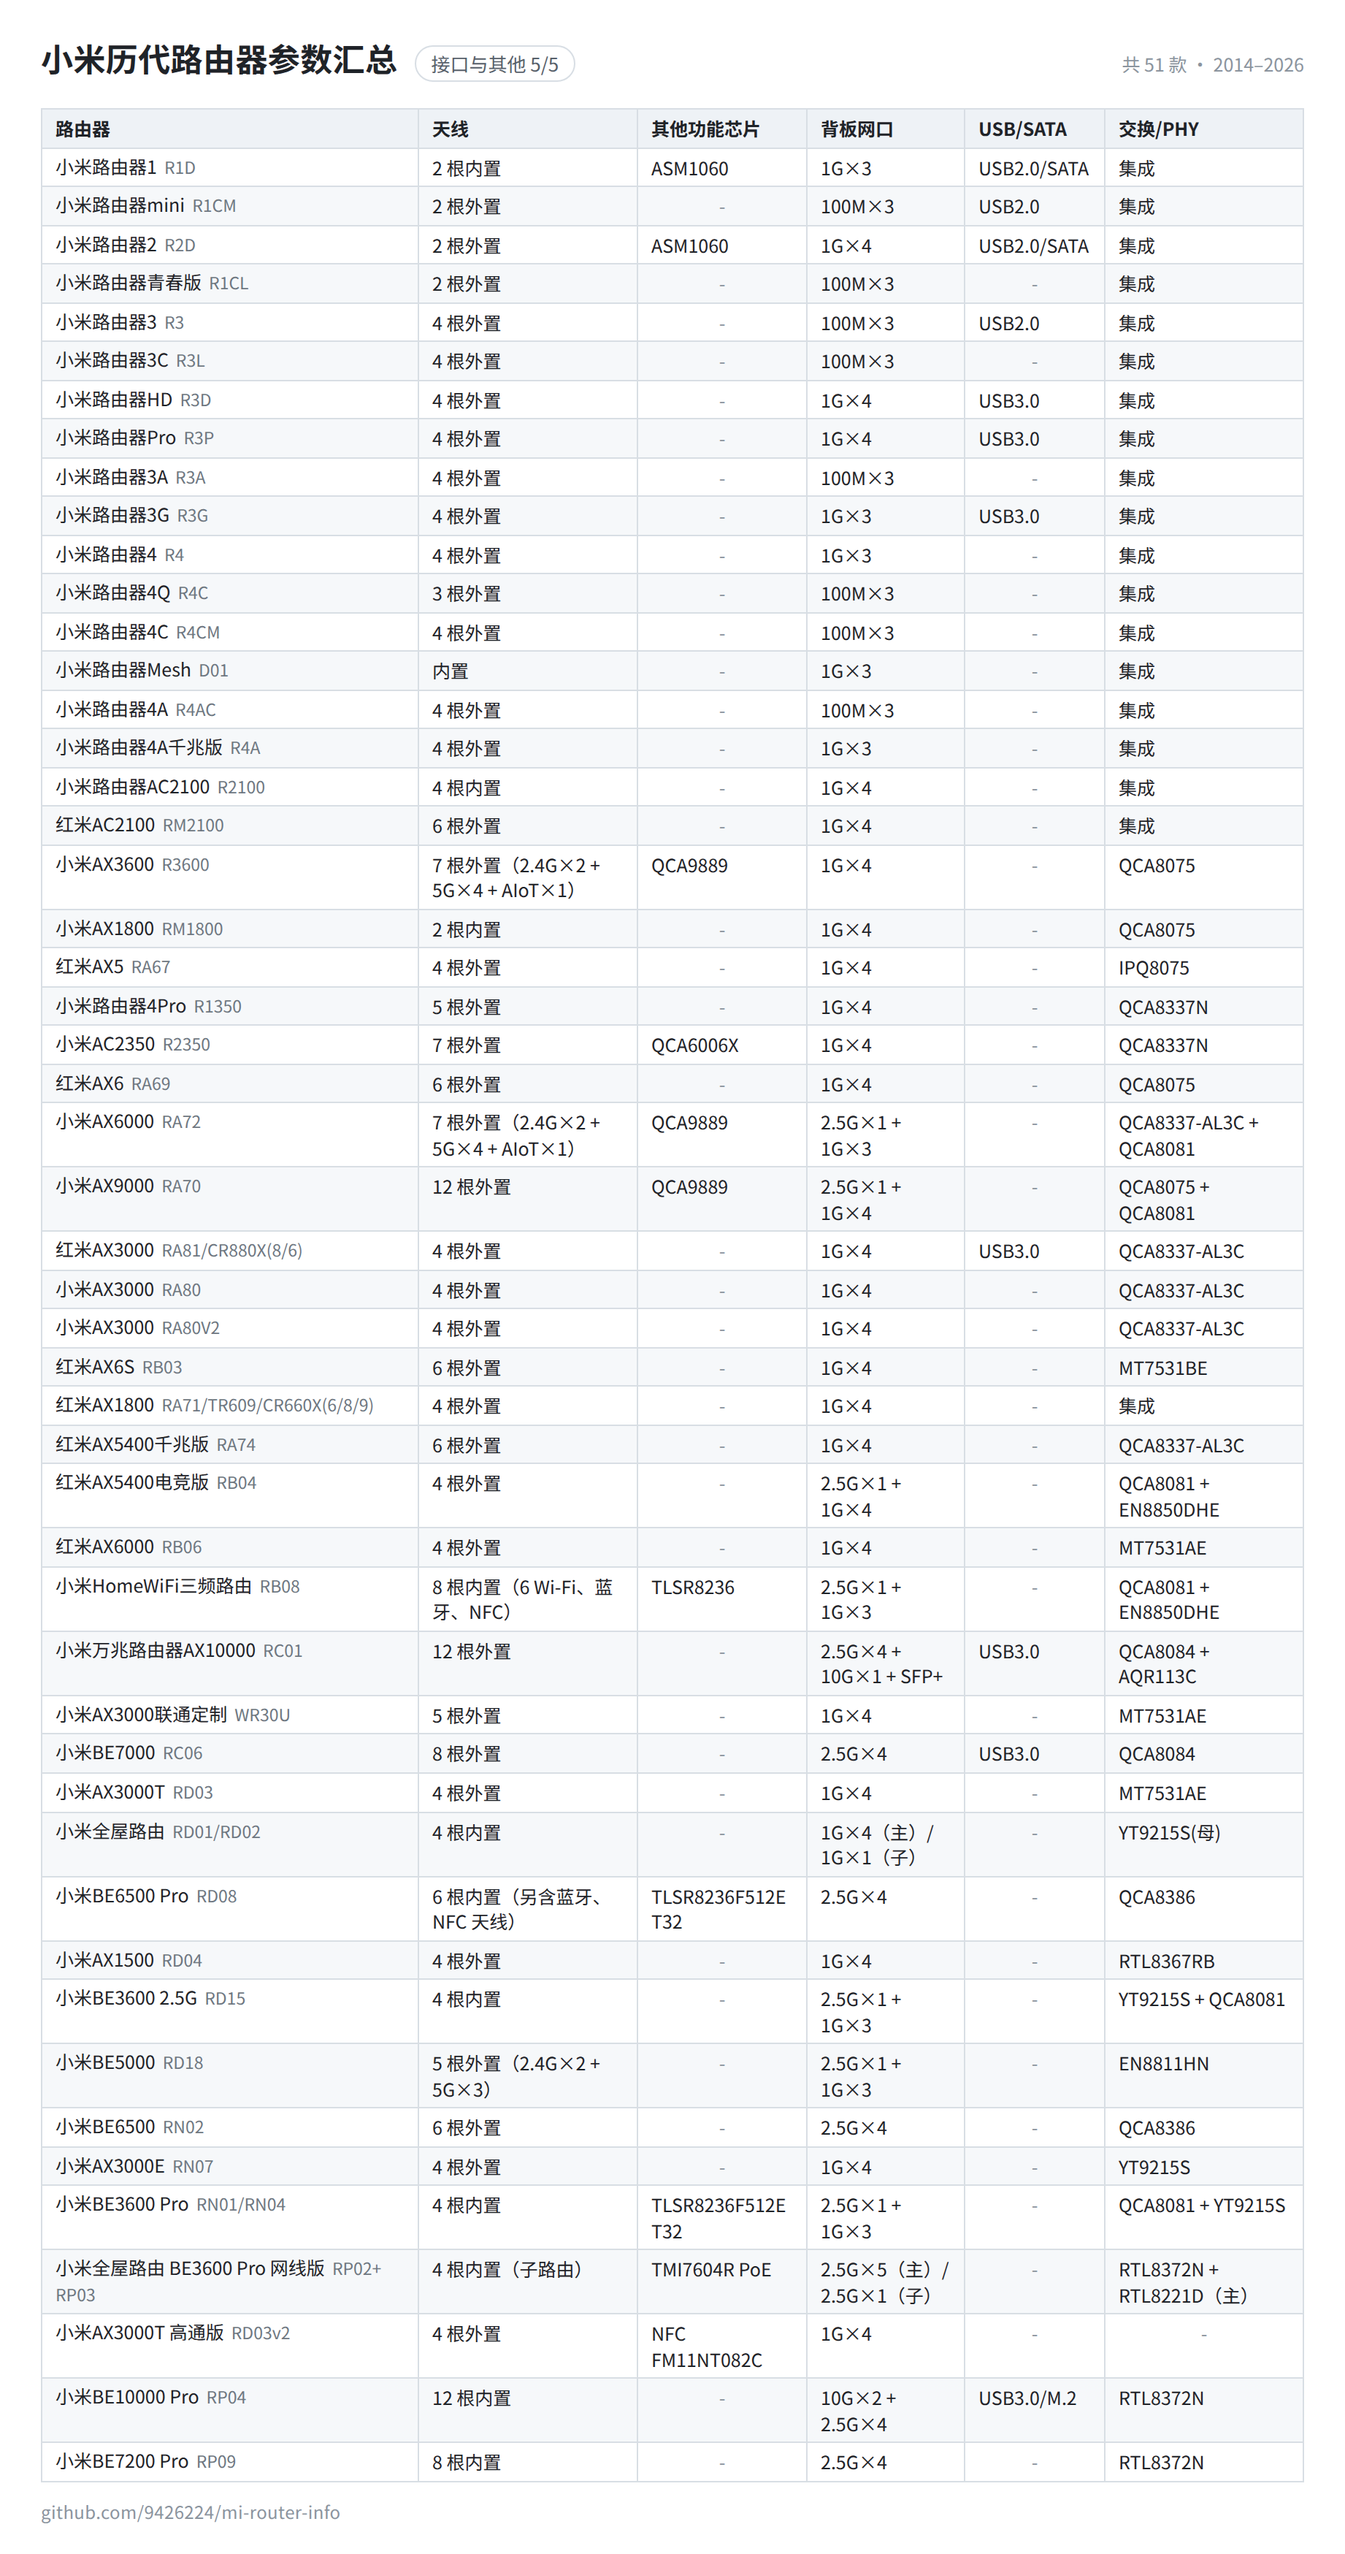
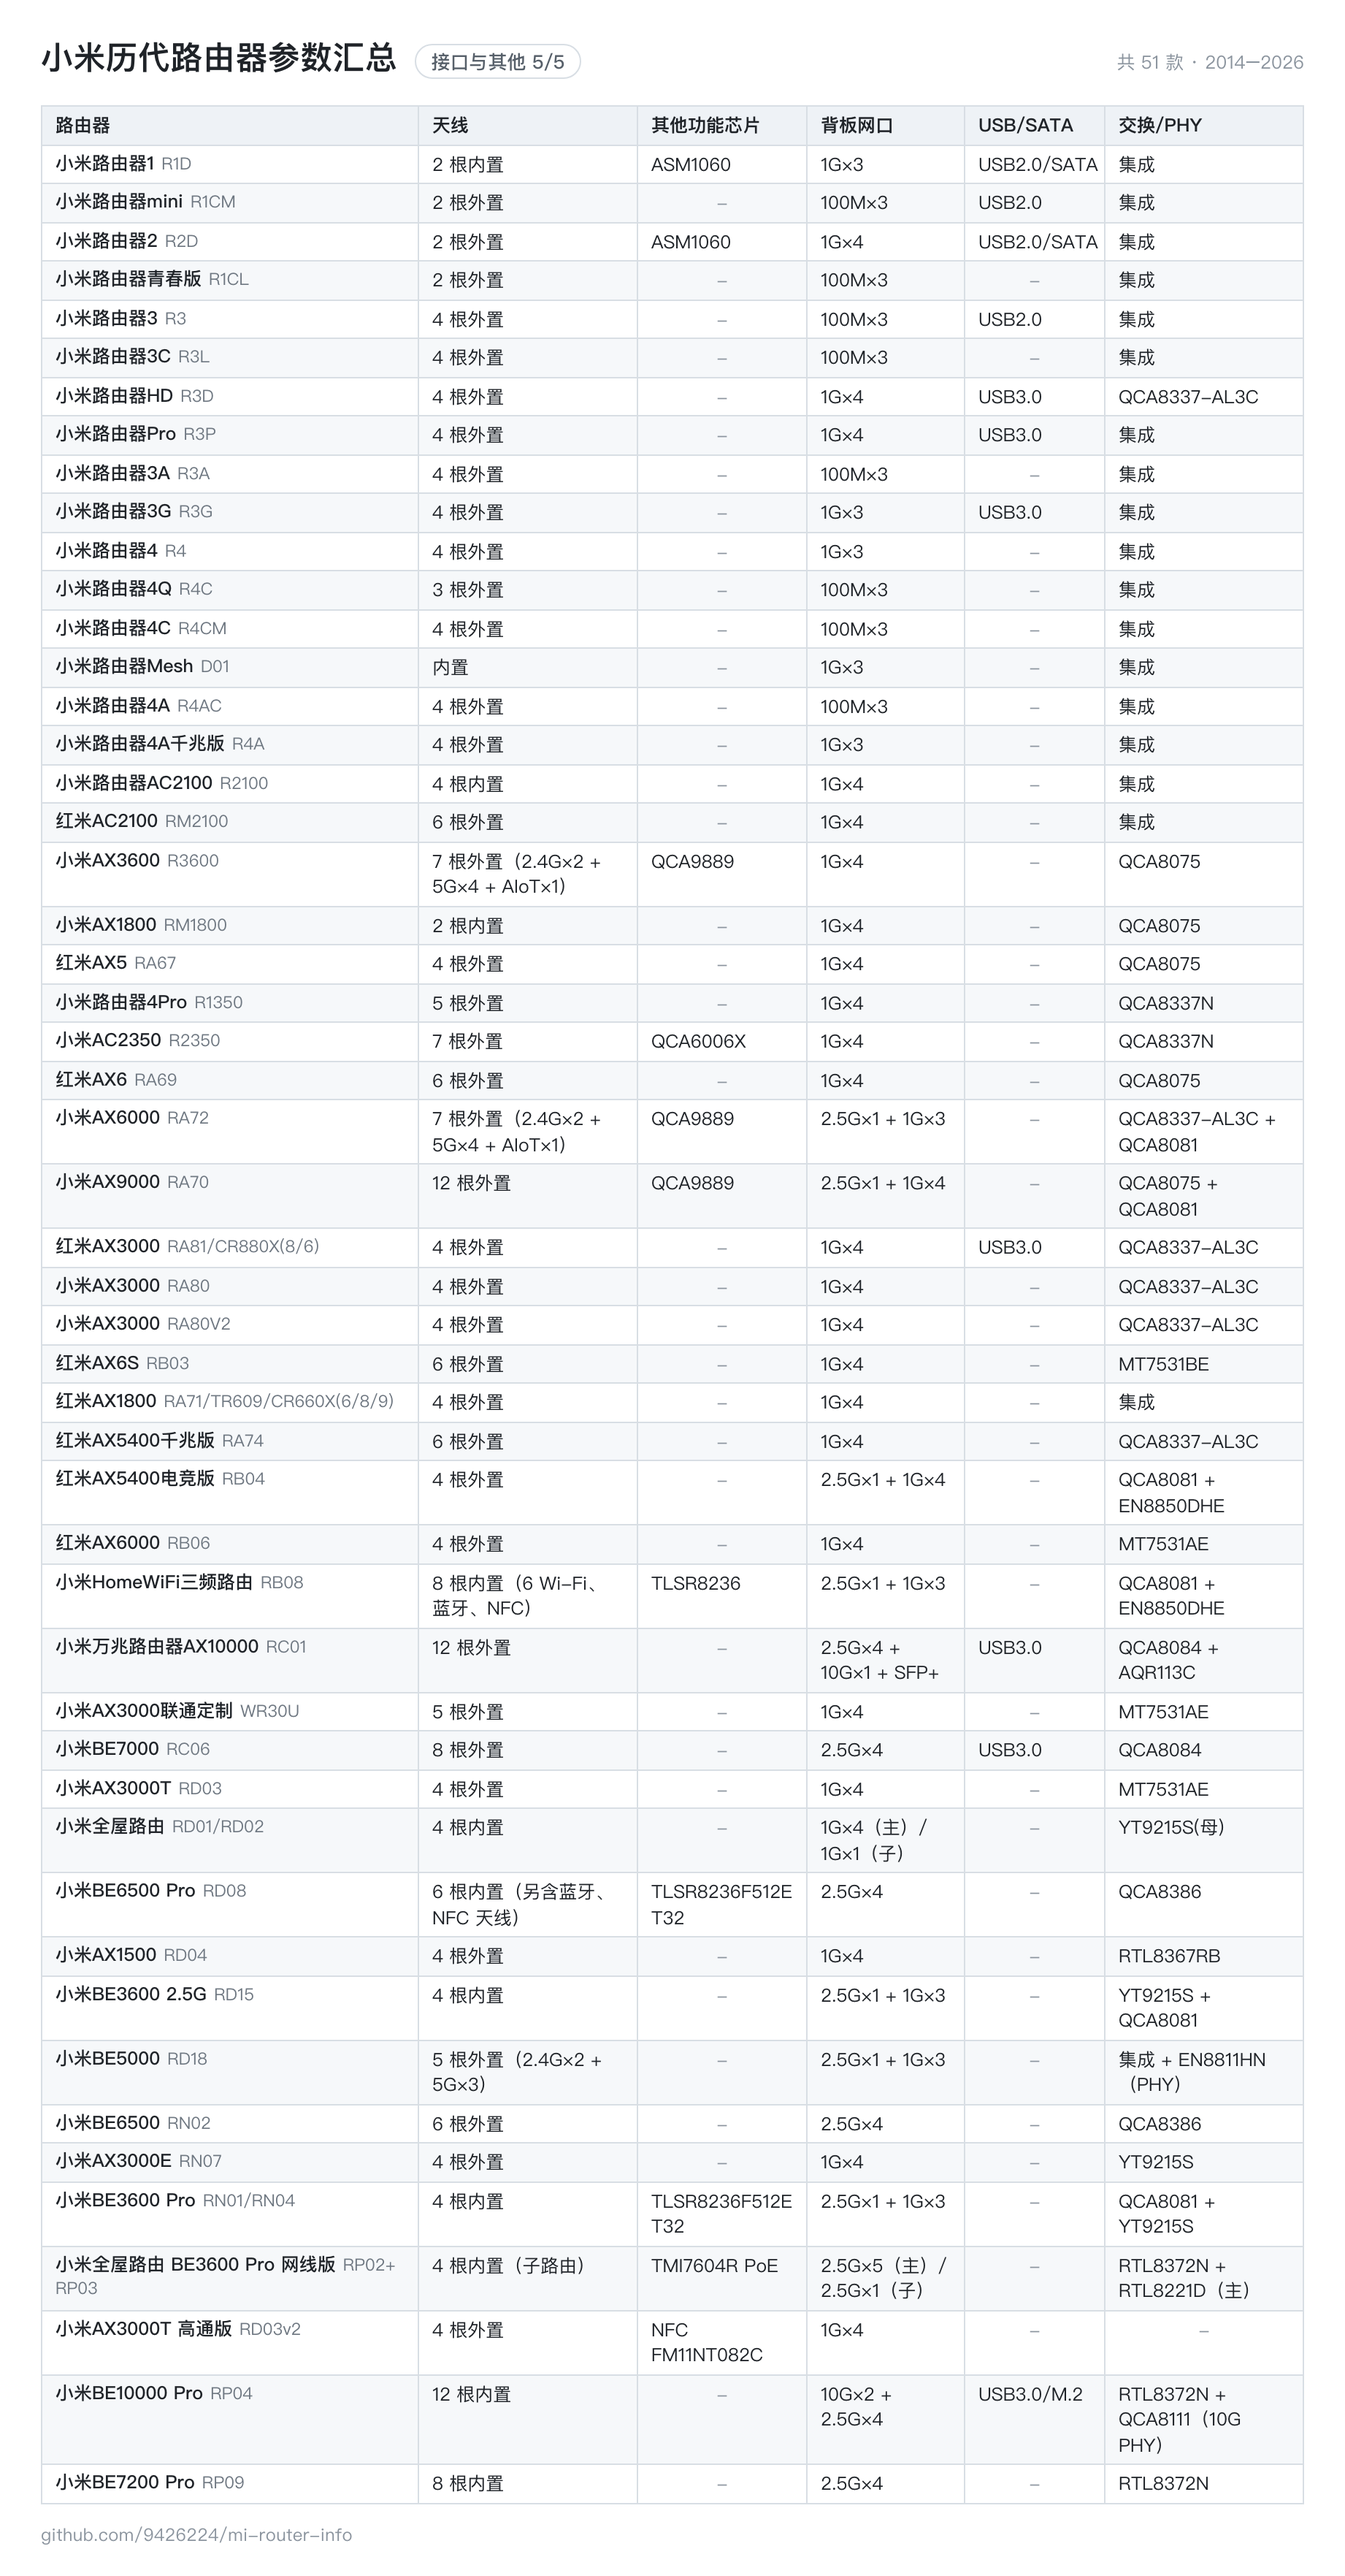
fix: 复核并修正芯片参数 (v0.4.1)
- 小米路由器 HD：2.4G 芯片改为 QCA9980，交换/PHY 补 QCA8337-AL3C
- 小米 AX3600 交换/PHY 改为 QCA8075；红米 AX5 的 IPQ8075 笔误改为 QCA8075
- BE7000 的 2.4G 芯片去掉多余的 RF 后缀
- MT7628 平台的小米路由器 4C / 4A 2.4G 芯片改为集成
- AX3000T、联通定制 WR30U、AX3000 RA80V2 的 2.4G 芯片改为集成
- BE5000 交换/PHY 注明集成 + EN8811HN（PHY）；BE10000 Pro 补 QCA8111 10G PHY
- 版本 0.4.1

diff --git a/docs/sources.md b/docs/sources.md
@@ -33,7 +33,8 @@
 - IPQ5312/5322 的 Ubi32 NPU：[BitsWRT NHX53X2 模块规格](https://bitswrt.com/zh-cn/product/wifi7-som/nhx53x2/nhx53x2_v02_220/)、[ipTIME BE3600QCA 资料](https://namu.wiki/w/ipTIME%20BE3600QCA)。
 - AN7563 的 NPU 仅做 RX offload：[OpenWrt 论坛](https://forum.openwrt.org/t/official-support-for-tp-link-xx530v/255062/18)。
 - MT7628 没有硬件 NAT：[恩山讨论](https://www.right.com.cn/forum/thread-259276-3-1.html)。
-- R3D 的 FEM 与 NSS 规格：[什么值得买配置帖](https://post.smzdm.com/p/a25gkmzd/)。
+- R3D 的 FEM、NSS 与 QCA9980/QCA9984/QCA8337 组合：[什么值得买配置帖](https://post.smzdm.com/p/a25gkmzd/)、[OpenWrt R3D 支持](https://github.com/openwrt/openwrt/commit/b11a1d130d428ea4210396cfdf1009fc488bf327)。
+- AX3600 的 QCA8075、QCN5024/QCN5054/QCA9889：[恩山拆机](https://www.right.com.cn/forum/thread-2748211-1-1.html)、[AX6000 对比](https://www.smyz.net/pc/11249.html)。
 
 ## 说明
 

diff --git a/CHANGELOG.md b/CHANGELOG.md
@@ -1,5 +1,17 @@
 # 更新记录
 
+## 0.4.1 - 2026-11-23
+
+芯片参数逐项复核，修正以下错误：
+
+- 小米路由器 HD：2.4G 芯片 QCA9981 → QCA9980；交换/PHY 补 QCA8337-AL3C
+- 小米 AX3600：交换/PHY 由「集成」改为 QCA8075；红米 AX5 的「IPQ8075」笔误改为 QCA8075
+- 小米 BE7000：2.4G 芯片「QCN5024 RF」改为 QCN5024
+- MT7628 平台：小米路由器 4C / 4A 的 2.4G 芯片改为集成（MT7628 自带 2.4G）
+- 小米 AX3000T / 联通定制 WR30U / AX3000 RA80V2 的 2.4G 芯片改为集成
+- BE5000 的交换/PHY 补「集成」并注明 EN8811HN 为 PHY；BE10000 Pro 补 QCA8111 10G PHY
+- 拆分图的 FEM/芯片列同步更新，一图流重新生成
+
 ## 0.4.0 - 2026-11-23
 
 全表复核（SOC、加速器、网口、无线）并新增一图流。
